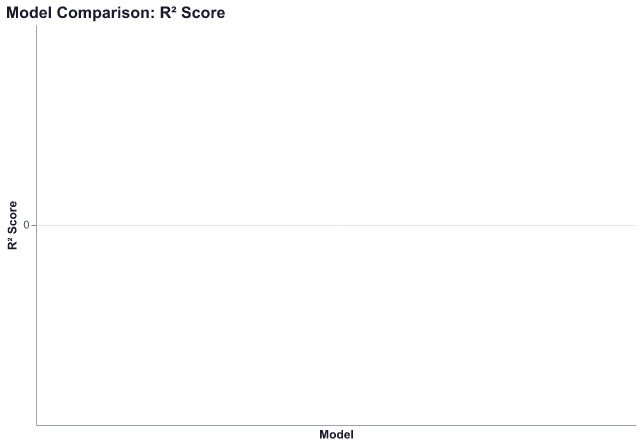
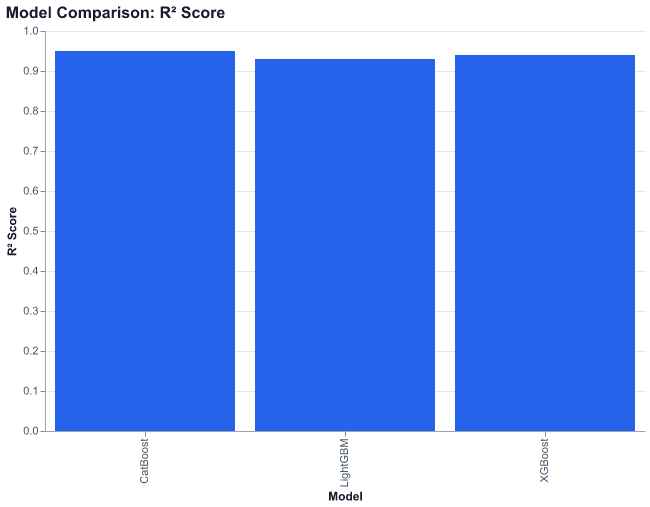
Fix bar chart categorical axis rendering
- Bar charts with string x-values (like model names) now use :N (nominal)
  instead of :Q (quantitative), fixing blank chart issue
- Bar charts with year x-values still use :O (ordinal) with decade formatting
- Regenerated all 15 charts

🤖 Generated with [Claude Code](https://claude.com/claude-code)

diff --git a/charts/altair_renderer/renderer.py b/charts/altair_renderer/renderer.py
@@ -135,8 +135,13 @@ class AltairRenderer:
             )
 
         elif chart_type == "bar":
+            # For bar charts, x is categorical (nominal) unless it's year data
+            if spec.x_format == "year":
+                bar_x = x_axis  # Use the ordinal year axis with formatting
+            else:
+                bar_x = alt.X(f"{spec.x}:N", title=spec.x_label) if spec.x else alt.X()
             return chart.mark_bar().encode(
-                x=x_axis,
+                x=bar_x,
                 y=y_axis,
                 color=alt.Color(spec.color) if spec.color else alt.value(self.COLORS[0]),
             )
